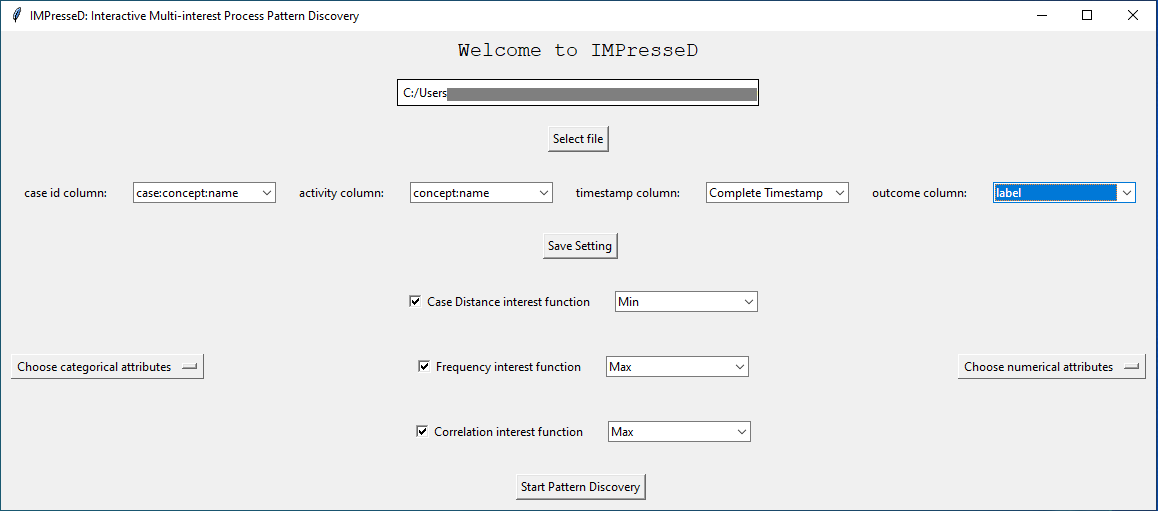
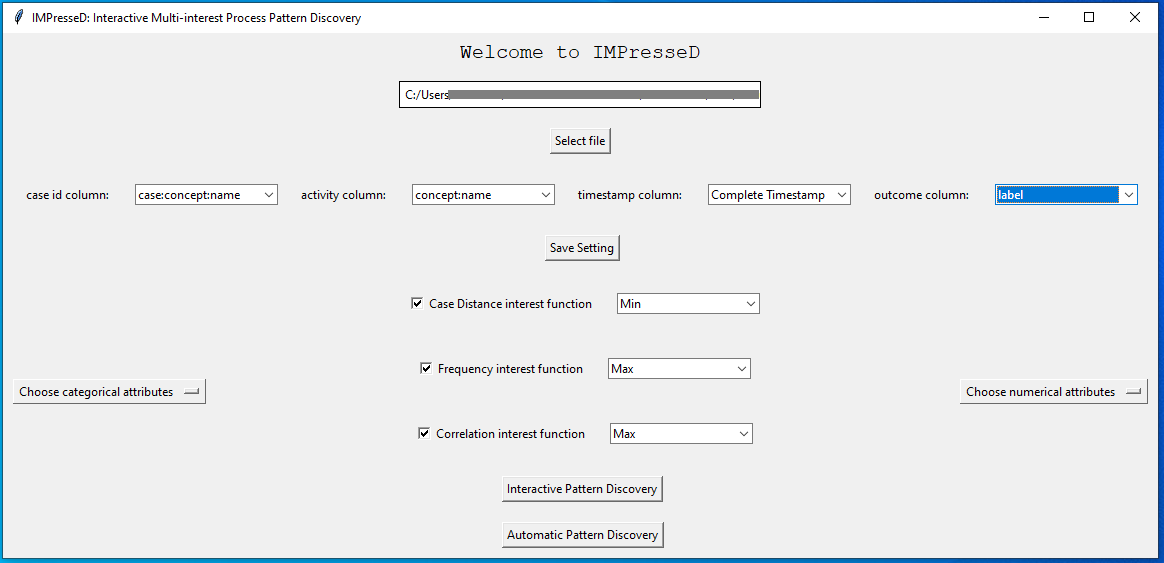
Automatic discovery UI added

diff --git a/GUI_IMPresseD_tool.py b/GUI_IMPresseD_tool.py
@@ -88,8 +88,10 @@ class GUI_IMOPD_IKNL_tool:
         self.save_setting_button.config(state="disabled")
 
         # create a button for starting the detection
-        self.start_detection_button = tk.Button(self.master, text="Start Pattern Discovery",
+        self.start_detection_button = tk.Button(self.master, text="Interactive Pattern Discovery",
                                                 command=self.start_detection)
+        self.auto_detection_button = tk.Button(self.master, text="Automatic Pattern Discovery",
+                                               command=self.Automatic_detection)
         self.interest_function_frame = tk.Frame(self.master)
         self.interest_function_frame_2 = tk.Frame(self.interest_function_frame)
         self.interest_function_frame_3 = tk.Frame(self.interest_function_frame)
@@ -117,6 +119,7 @@ class GUI_IMOPD_IKNL_tool:
 
         # Clear all buttons and text widgets
         self.start_detection_button.destroy()
+        self.auto_detection_button.destroy()
         self.interest_function_frame.destroy()
         self.interest_function_frame_2.destroy()
         self.interest_function_frame_3.destroy()
@@ -183,7 +186,11 @@ class GUI_IMOPD_IKNL_tool:
                     self.numerical_attributes.append(name)
 
             # create a button for starting the detection
-            self.start_detection_button = tk.Button(self.master, text="Start Pattern Discovery",
+            self.auto_detection_button = tk.Button(self.master, text="Automatic Pattern Discovery",
+                                                   command=self.Automatic_detection)
+            self.auto_detection_button.pack(side=tk.BOTTOM, padx=10, pady=10)
+
+            self.start_detection_button = tk.Button(self.master, text="Interactive Pattern Discovery",
                                                     command=self.start_detection)
             self.start_detection_button.pack(side=tk.BOTTOM, padx=10, pady=10)
 
@@ -244,49 +251,55 @@ class GUI_IMOPD_IKNL_tool:
             messagebox.showerror("Error", "You need to select case id, activity, timestamp and outcome!")
 
     def start_detection(self):
-        # create a new window for showing the results
-        self.result_window = tk.Toplevel(self.master)
-        self.result_window.title("Results")
-        self.result_window.geometry("1000x900")
-        self.result_window.resizable(False, False)
-        self.result_window.grab_set()
-        self.result_window.focus_set()
-        self.result_window.transient(self.master)
+        if self.correlation_function.get() == 0 and \
+                self.frequency_function.get() == 0 and \
+                self.distance_function.get() == 0:
+            messagebox.showerror("Error", "You need to select at least one interest function!")
+        else:
+            # create a new window for showing the results
+            self.result_window = tk.Toplevel(self.master)
+            self.result_window.title("Results")
+            self.result_window.geometry("1000x900")
+            self.result_window.resizable(False, False)
+            self.result_window.grab_set()
+            self.result_window.focus_set()
+            self.result_window.transient(self.master)
 
-        self.progress_bar = ttk.Progressbar(self.result_window, orient=tk.HORIZONTAL, length=900, mode='indeterminate')
-        self.progress_bar.pack(side=tk.TOP, padx=10, pady=10)
+            self.progress_bar = ttk.Progressbar(self.result_window, orient=tk.HORIZONTAL, length=900,
+                                                mode='indeterminate')
+            self.progress_bar.pack(side=tk.TOP, padx=10, pady=10)
 
-        # add text holder for recieving input from user
-        self.text_holder = tk.Text(self.result_window, height=1, width=50)
-        self.text_holder.pack(side=tk.TOP, padx=10, pady=10)
+            # add text holder for recieving input from user
+            self.text_holder = tk.Text(self.result_window, height=1, width=50)
+            self.text_holder.pack(side=tk.TOP, padx=10, pady=10)
 
-        # add button for getting input from user
-        self.get_input_button = tk.Button(self.result_window, text="Pattern Extension", command=self.extension)
-        self.get_input_button.pack(side=tk.TOP, padx=10, pady=10)
+            # add button for getting input from user
+            self.get_input_button = tk.Button(self.result_window, text="Pattern Extension", command=self.extension)
+            self.get_input_button.pack(side=tk.TOP, padx=10, pady=10)
 
-        # create a frame for showing the results
-        self.result_frame = tk.Frame(self.result_window)
-        self.result_frame.pack(side=tk.TOP)
-        # create a picture canvas for showing the results
-        self.result_canvas = tk.Canvas(self.result_frame)
-        self.result_canvas.pack(side=tk.TOP, fill=tk.BOTH, expand=True)
-        # check if any categorical and numerical attributes are selected
-        if len(self.categorical_attributes) > 0:
-            self.with_categorical = True
-        if len(self.numerical_attributes) > 0:
-            self.with_numerical = True
-        # add a frame for showing the more results beside canvas
-        self.table_result_frame = tk.Frame(self.result_window)
-        self.table_result_frame.pack(side=tk.TOP, fill=tk.BOTH, expand=True)
-        # add a message on top the table
-        self.table_result_text = tk.Label(self.table_result_frame, text="Right click on your desired pattern to"
-                                                                        " put in its name on the clipboard")
-        self.table_result_text.pack(side=tk.TOP, padx=10, pady=10)
-        # add tree widget for showing the results
-        tree = self.creat_table(self.table_result_frame)
-        # create a new thread for running the detection
-        self.thread = threading.Thread(target=self.run_detection(tree))
-        self.thread.start()
+            # create a frame for showing the results
+            self.result_frame = tk.Frame(self.result_window)
+            self.result_frame.pack(side=tk.TOP)
+            # create a picture canvas for showing the results
+            self.result_canvas = tk.Canvas(self.result_frame)
+            self.result_canvas.pack(side=tk.TOP, fill=tk.BOTH, expand=True)
+            # check if any categorical and numerical attributes are selected
+            if len(self.categorical_attributes) > 0:
+                self.with_categorical = True
+            if len(self.numerical_attributes) > 0:
+                self.with_numerical = True
+            # add a frame for showing the more results beside canvas
+            self.table_result_frame = tk.Frame(self.result_window)
+            self.table_result_frame.pack(side=tk.TOP, fill=tk.BOTH, expand=True)
+            # add a message on top the table
+            self.table_result_text = tk.Label(self.table_result_frame, text="Right click on your desired pattern to"
+                                                                            " put in its name on the clipboard")
+            self.table_result_text.pack(side=tk.TOP, padx=10, pady=10)
+            # add tree widget for showing the results
+            tree = self.creat_table(self.table_result_frame)
+            # create a new thread for running the detection
+            self.thread = threading.Thread(target=self.run_detection(tree))
+            self.thread.start()
 
     def run_detection(self, tree):
         # create a progress bar at the bottom of the result window
@@ -396,8 +409,8 @@ class GUI_IMOPD_IKNL_tool:
         for index, row in paretoset_activities.iterrows():
             # insert values into the treeview widget
             tree.insert("", "end",
-                             values=(row['patterns'], row['Frequency_Interest'],
-                                     row['Outcome_Interest'], row['Case_Distance_Interest']))
+                        values=(row['patterns'], row['Frequency_Interest'],
+                                row['Outcome_Interest'], row['Case_Distance_Interest']))
 
     def creat_table(self, table_result_frame):
         tree = ttk.Treeview(table_result_frame, columns=("patterns",
@@ -858,6 +871,64 @@ class GUI_IMOPD_IKNL_tool:
             canvas = FigureCanvasTkAgg(fig, master=result_canvas)
             canvas.draw()
             canvas.get_tk_widget().pack(side=tk.TOP, fill=tk.BOTH, expand=True)
+
+    def Automatic_detection(self):
+        # open new windows to get the parameters for the automatic detection
+        self.Automatic_detection_window = tk.Toplevel(self.master)
+        self.Automatic_detection_window.title("Automatic detection")
+        self.Automatic_detection_window.grab_set()
+        self.Automatic_detection_window.focus_set()
+        # self.Automatic_detection_window.geometry("500x500")
+
+        # add text holder for receiving input from user below
+        setting_frame = tk.Frame(self.Automatic_detection_window)
+        setting_frame.pack(side=tk.TOP, fill=tk.X, padx=10, pady=10)
+        text_holder_label = tk.Label(setting_frame, text="Max extension step: ")
+        text_holder_label.pack(side=tk.LEFT, padx=10, pady=10)
+        text_holder = tk.Entry(setting_frame, width=5)
+        text_holder.pack(side=tk.LEFT, padx=10, pady=10)
+
+        eventual_label = tk.Label(setting_frame, text="Max gap between events: ")
+        eventual_label.pack(side=tk.LEFT, padx=10, pady=10)
+        eventual_holder = tk.Entry(setting_frame, width=5)
+        eventual_holder.pack(side=tk.LEFT, padx=10, pady=10)
+
+        # get the location to save the results of the automatic detection
+        folder_frame = tk.Frame(self.Automatic_detection_window)
+        folder_frame.pack(side=tk.TOP, fill=tk.X, padx=10, pady=10)
+        folder_label = tk.Label(folder_frame, text="No folder selected", borderwidth=1,
+                                   relief="solid",
+                                   width=50, background="white", anchor="w", padx=5, pady=5, justify="left")
+        folder_label.pack(side=tk.LEFT, padx=10, pady=10)
+
+        select_file_button = tk.Button(folder_frame, text="Select folder",
+                                            command=lambda: self.select_folder(folder_label))
+        select_file_button.pack(side=tk.LEFT, padx=10, pady=10)
+
+        # add button to start the automatic detection
+        button_frame = tk.Frame(self.Automatic_detection_window)
+        button_frame.pack(side=tk.TOP, fill=tk.X, padx=10, pady=10)
+        button = tk.Button(button_frame, text="Start Automatic detection",
+                           command=lambda: self.start_automatic_detection(text_holder, eventual_holder))
+        button.pack(side=tk.BOTTOM, padx=10, pady=10)
+
+    def select_folder(self, folder_label):
+        # get file path for only csv files
+        self.saving_directory = filedialog.askdirectory(title="Select an event log (.cvs format)")
+
+        #check if the directory is exist
+        if self.saving_directory != "":
+            folder_label.config(text=self.saving_directory)
+        else:
+            messagebox.showerror("Error", "Please select a folder")
+
+    def start_automatic_detection(self, text_holder, eventual_holder):
+        Max_extension_step = text_holder.get()
+        Max_extension_step = int(Max_extension_step)
+
+        Max_gap_between_events = eventual_holder.get()
+        Max_gap_between_events = int(Max_gap_between_events)
+
 
 
 root = tk.Tk()

diff --git a/README.md b/README.md
@@ -12,7 +12,7 @@ To use the implemented tool, you need to have a labeled event log in .cvs format
 ![IMAGE](pic/Settings.PNG)
 
 3. Set and save the required settings and click ```Save Setting```
-4. Check desired interest functions (we recommend using all of them) and ```Start Pattern Disocvery```
+4. Check desired interest functions (we recommend using all of them) and click ```Interactive Pattern Disocvery``` button button to initiate the tool in interactive mod:
 ![IMAGE](pic/Settings_1.PNG)
 
 5. Running on a big dataset for the first time would take some time for calculating the pairwise case distances (:coffee:), then you have the results in new window:
